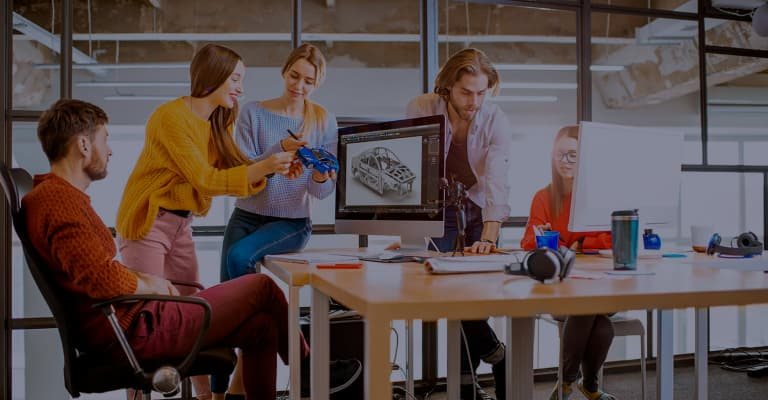
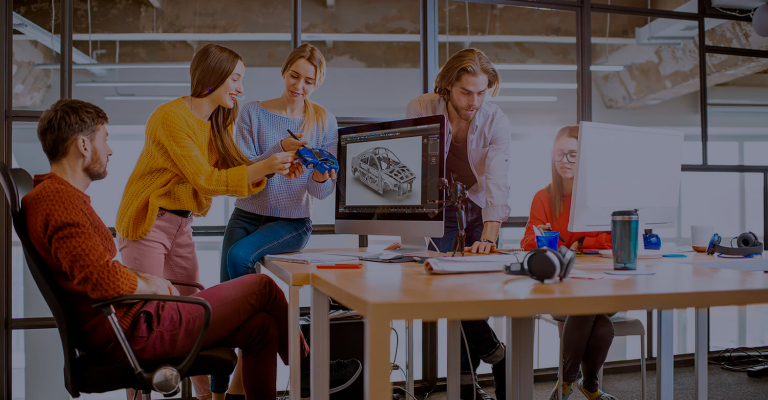
Адаптивные фон у Героя

diff --git a/css/main.min.css b/css/main.min.css
@@ -1,2 +1,2 @@
-.navigation-link,.mobile-navigation-link,.logo,.contacts-link,.mobile-contacts-link,.customer-link,.social-link,.address,.footer-contact{text-decoration:none;transition:color 250ms cubic-bezier(0.4, 0, 0.2, 1)}.navigation,.mobile-navigation,.contacts,.mobile-contacts,.benefit__list,.work-list,.team-list,.customer-list,.social-list{padding:0;margin:0;list-style:none}.benefit-text,.profession{color:var(--primary-text-color)}.benefits h2{position:absolute !important;clip:rect(1px 1px 1px 1px);clip:rect(1px, 1px, 1px, 1px);padding:0 !important;border:0 !important;height:1px !important;width:1px !important;overflow:hidden}.hero-button,.form-button,.subscribe-btn{display:inline-block;padding-top:10px;padding-bottom:10px;font-weight:700;font-size:16px;line-height:1.87;color:#fff;background-color:#2196f3;border:1px solid #2196f3;border-radius:4px;transition:background-color 250ms cubic-bezier(0.4, 0, 0.2, 1),color 250ms cubic-bezier(0.4, 0, 0.2, 1)}.benefit-text,.profession{color:#757575}.benefits,.team,.customers{padding-bottom:94px;padding-top:94px}.work-title,.team-title,.customer-title{margin-bottom:50px;font-weight:700;font-size:36px;line-height:1.166;text-align:center;letter-spacing:0.03em}.name-title,.profession{font-size:16px;line-height:1.1875;text-align:center;letter-spacing:0.03em}html{box-sizing:border-box}*,*::before,*::after{box-sizing:inherit;outline:2px solid red}h1,h2,h3,h4,h5{margin-top:0}p{margin:0}img{display:block;max-width:100%;height:auto}body{font-family:"Roboto",sans-serif;color:#212121;background-color:#fff}.container{width:100%;padding-right:15px;padding-left:15px;margin-right:auto;margin-left:auto}@media screen and (min-width: 480px){.container{width:480px}}@media screen and (min-width: 768px){.container{width:768px}}@media screen and (min-width: 1200px){.container{width:1200px}}.header-wrap{border-bottom:1px solid #ececec}@media screen and (min-width: 768px){.header-wrap{display:flex;justify-content:center;align-items:center}}.main-nav{display:flex;justify-content:space-between;align-items:center}@media screen and (min-width: 768px){.main-nav{display:flex;justify-content:unset;align-items:center}}.navigation{display:none;margin-left:93px}@media screen and (min-width: 768px){.navigation{display:flex}}.navigation-item:not(:last-child){margin-right:50px}.navigation-link{position:relative;display:block;padding-top:32px;padding-bottom:32px;font-weight:500;font-size:14px;line-height:1.142;letter-spacing:0.02em;color:#212121}.navigation-link:hover,.navigation-link:focus{color:#2196f3}.navigation-link::after{position:absolute;bottom:0;left:0;content:"";display:block;width:100%;height:4px;background-color:#2196f3;border-radius:2px;transform:scale(0);transition:transform 250ms cubic-bezier(0.4, 0, 0.2, 1)}.navigation-link.current{color:#2196f3}.navigation-link:hover::after,.navigation-link.current::after{transform:scale(1)}.mobile-menu-btn{display:block;background-color:transparent;border:none}.mobile-menu-btn:focus,.mobile-menu-btn:hover{fill:#2196f3}.mobile-menu-btn.is--open{display:none}@media screen and (min-width: 768px){.mobile-menu-btn{display:none}}.close-menu-btn{display:none}.close-menu-btn.is--open{display:block;background-color:transparent;border:none}.close-menu-btn.is--open:focus,.close-menu-btn.is--open:hover{fill:#2196f3}.mobile-menu{position:absolute;right:0;left:0;padding-top:60px;padding-bottom:60px;background-color:#fff;opacity:0;visibility:hidden}@media screen and (min-width: 768px){.mobile-menu{display:none}}.mobile-menu.is--open{opacity:1;visibility:visible}.mobile-navigation{text-align:center}.mobile-navigation-link{position:relative;display:inline-block;padding-top:8px;padding-bottom:8px;margin-bottom:40px;font-weight:500;font-size:18px;line-height:1.142;letter-spacing:0.02em;color:#212121}.mobile-navigation-link:hover,.mobile-navigation-link:focus{color:#2196f3}.mobile-navigation-link::after{position:absolute;bottom:0;left:0;content:"";display:block;width:100%;height:4px;background-color:#2196f3;border-radius:2px;transform:scale(0);transition:transform 250ms cubic-bezier(0.4, 0, 0.2, 1)}.mobile-navigation-link.current{color:#2196f3}.mobile-navigation-link:hover::after,.mobile-navigation-link.current::after{transform:scale(1)}.logo{font-family:"Raleway",sans-serif;font-weight:700;font-size:26px;line-height:1.192;letter-spacing:0.03em}.logo-color{color:#2196f3}.logo-header{color:#212121}.logo-footer{color:#fff;margin-bottom:20px}.contacts{display:none}@media screen and (min-width: 768px){.contacts{display:flex;justify-content:none;align-items:center;margin-left:auto}.contacts-item+.contacts-item{margin-left:50px}}.contacts-link{display:block;padding-top:32px;padding-bottom:32px;font-weight:500;font-size:14px;line-height:1.142;letter-spacing:0.02em;color:#757575}.contacts-link:hover,.contacts-link:focus{color:#2196f3}.contact-icon{margin-right:10px;fill:currentColor}.mobile-contacts{text-align:center}.mobile-contacts-link{display:block;padding-top:5px;padding-bottom:5px;font-weight:500;font-size:18px;line-height:1.142;letter-spacing:0.02em;color:#757575}.mobile-contacts-link:not(:last-child){margin-bottom:16px}.mobile-contacts-link:hover,.mobile-contacts-link:focus{color:#2196f3}.hero{max-width:1600px;margin-right:auto;margin-left:auto;padding-top:118px;padding-bottom:118px;text-align:center;background-color:#2f303a;background-image:linear-gradient(to right, rgba(47,48,58,0.4), rgba(47,48,58,0.4)),url("../images/hero_optimazed.jpg");background-repeat:no-repeat;background-size:cover;background-position:center}.hero-title{width:360px;margin-right:auto;margin-left:auto;margin-bottom:30px;font-weight:900;font-size:26px;line-height:1.36;letter-spacing:0.06em;text-transform:uppercase;color:#fff}@media screen and (min-width: 1200px){.hero-title{width:696px;font-size:44px}}.hero-button{padding-right:32px;padding-left:32px;color:#fff}.hero-button:hover,.hero-button:focus{color:#2196f3;background-color:#fff}.benefits{padding-top:94px}.benefit__list{margin-left:auto;margin-right:auto}@media screen and (min-width: 768px){.benefit__list{display:flex;flex-wrap:wrap;margin-left:-30px;margin-top:-30px}}.benefit__list .benefit__list__item{width:100%;max-width:450px}@media screen and (min-width: 768px){.benefit__list .benefit__list__item{margin-left:30px;margin-top:30px;flex-basis:calc(100% / 2 - 30px)}}@media screen and (min-width: 1200px){.benefit__list .benefit__list__item{margin-left:30px;margin-top:30px;flex-basis:calc(100% / 4 - 30px)}}.benefit__list__item::before{display:block;height:120px;content:"";background-color:#f5f4fa;background-repeat:no-repeat;background-position:center;background-size:70px 70px;border-radius:4px}.benefit-title{margin-bottom:10px;margin-top:30px;font-weight:700;font-size:14px;line-height:1.142;letter-spacing:0.03em;text-transform:uppercase;text-align:center}@media screen and (min-width: 768px){.benefit-title{text-align:left}}.benefit-text{margin-bottom:0;font-size:14px;line-height:1.71;letter-spacing:0.03em}.icon-details::before{background-image:url("../images/benefits/desktop/antena.png")}.icon-in-time::before{background-image:url("../images/benefits/desktop/clock.png")}.icon-planning::before{background-image:url("../images/benefits/desktop/diagram.png")}.icon-technology::before{background-image:url("../images/benefits/desktop/astronaut.png")}.works{display:none}@media screen and (min-width: 1200px){.works{display:block;padding-bottom:94px}}@media screen and (min-width: 1200px){.work-list{display:flex}}.work-item{display:inline-block;position:relative;z-index:1}.work-item:not(:nth-child(3n)){margin-right:30px}.work-description{position:absolute;z-index:2;left:0;bottom:0;display:flex;justify-content:center;align-items:center;height:70px;width:100%;font-weight:700;font-size:14px;line-height:1.142;letter-spacing:0.03em;text-transform:uppercase;color:#fff;background-color:rgba(47,48,58,0.8)}.team{background-color:#f5f4fa}@media screen and (max-width: 1199px){.team-title{font-size:28px}}@media screen and (min-width: 768px){.team-list{display:flex;flex-wrap:wrap;margin-left:-30px;margin-top:-30px}}.team-item{width:100%;max-width:450px;margin-right:auto;margin-left:auto;padding-bottom:30px;background-color:#fff;box-shadow:0px 1px 3px rgba(0,0,0,0.12),0px 1px 1px rgba(0,0,0,0.14),0px 2px 1px rgba(0,0,0,0.2);border-radius:0px 0px 4px 4px}@media screen and (min-width: 768px){.team-item{flex-basis:calc(100% / 2 - 30px);margin-left:30px;margin-top:30px}}@media screen and (min-width: 1200px){.team-item{flex-basis:calc(100% / 4 - 30px);margin-left:30px;margin-top:30px}}.team-photo{margin-bottom:30px}.name-title{margin-bottom:10px;font-weight:500}.profession{margin-bottom:16px}.customer-list{display:flex;flex-wrap:wrap;margin-left:-30px;margin-top:-30px}.customer-item{width:100%;max-width:450px;margin-left:30px;margin-top:30px}@media screen and (max-width: 1199px){.customer-item{flex-basis:calc(100% / 2 - 30px)}}@media screen and (min-width: 768px){.customer-item{flex-basis:calc(100% / 3 - 30px)}}@media screen and (min-width: 1200px){.customer-item{flex-basis:calc(100% / 6 - 30px)}}.customer-link{display:flex;justify-content:center;align-items:center;height:90px;border:1px solid #afb1b8;border-radius:4px;transition:border 250ms cubic-bezier(0.4, 0, 0.2, 1)}.customer-link:hover,.customer-link:focus{border:1px solid #2196f3}.customer-icon{transition:fill 250ms cubic-bezier(0.4, 0, 0.2, 1);fill:#afb1b8}.customer-link:hover .customer-icon,.customer-link:focus .customer-icon{fill:#2196f3}.backdrop{position:fixed;z-index:3;left:0;top:0;width:100%;height:100%;background-color:rgba(0,0,0,0.2);opacity:1;transition:opacity 250ms cubic-bezier(0.4, 0, 0.2, 1)}.backdrop.is-hidden{opacity:0;pointer-events:none}.modal{position:absolute;z-index:5;left:50%;top:50%;transform:translate(-50%, -50%) scale(1);min-width:528px;min-height:581px;padding:40px;background-color:#fff;box-shadow:0px 1px 3px rgba(0,0,0,0.12),0px 1px 1px rgba(0,0,0,0.14),0px 2px 1px rgba(0,0,0,0.2);border-radius:4px;transition:transform 250ms cubic-bezier(0.4, 0, 0.2, 1)}.backdrop.is-hidden .modal{transform:translate(-50%, -50%) scale(0.5)}.close-modal{position:absolute;right:8px;top:8px;width:30px;height:30px;display:flex;justify-content:center;align-items:center;background-color:#fff;border-radius:50%;border:1px solid rgba(0,0,0,0.1)}.close-modal:hover{background-color:#2196f3}.form-title{margin-bottom:12px;font-weight:700;font-size:20px;line-height:1.5;letter-spacing:0.03em;color:#212121}.recall-form{text-align:left}.form-field{position:relative;margin-bottom:10px}.form-field:nth-last-of-type(2){margin-bottom:20px}.form-label{display:inline-block;margin-bottom:4px;font-size:12px;line-height:1.16;letter-spacing:0.01em;color:#757575}.form-input{width:100%;padding:12px;padding-left:42px;transition:250ms cubic-bezier(0.4, 0, 0.2, 1);border:1px solid rgba(33,33,33,0.2);box-sizing:border-box;border-radius:4px}.form-input:focus,.form-input:hover{cursor:pointer;border:1px solid #2196f3}.form-input:focus{outline:1px auto #2196f3}.form-comment{width:100%;height:120px;transition:250ms cubic-bezier(0.4, 0, 0.2, 1);resize:none;padding:12px;border:1px solid rgba(33,33,33,0.2);box-sizing:border-box;border-radius:4px}.form-comment:focus,.form-comment:hover{cursor:pointer;border:1px solid #2196f3}.form-comment:focus{outline:1px auto #2196f3}.form-comment::placeholder{font-size:14px;line-height:1.14;letter-spacing:0.01em;color:rgba(117,117,117,0.5)}.input-icon{position:absolute;left:15px;top:35px}.form-input:focus ~ .input-icon,.form-input:hover ~ .input-icon{fill:#2196f3}.checkbox-label{display:inline-flex;align-items:center;font-size:14px;line-height:1.71;letter-spacing:0.03em;margin-bottom:30px;color:#757575}.checkbox-link{display:inline-block;margin-left:5px;color:#2196f3;transition:250ms cubic-bezier(0.4, 0, 0.2, 1)}.checkbox-link:hover,.checkbox-link:focus{color:#1b78c4}.custom-checkbox{appearance:none;position:absolute}.icon{display:inline-block;width:16px;height:15px;margin-right:5px;border:2px solid #2a2a2a;border-radius:4px;background-color:transparent;transition:250ms cubic-bezier(0.4, 0, 0.2, 1)}.custom-checkbox:checked+.icon{border-color:transparent;background-image:url("../images/icon_check.svg");background-size:contain;background-origin:border-box}.form-button{display:block;margin-left:auto;margin-right:auto;padding-right:54px;padding-left:54px;box-shadow:0px 4px 4px rgba(0,0,0,0.15)}.form-button:hover,.form-button:focus{background-color:#188ce8;cursor:pointer}.social-list{display:flex;justify-content:center;align-items:none}.social-item:not(:last-child){margin-right:10px}.social-link{display:flex;justify-content:center;align-items:center;width:44px;height:44px;border-radius:50%}.team .social-link{background-color:#fff;transition:background-color 250ms cubic-bezier(0.4, 0, 0.2, 1)}.join-us .social-link{background-color:rgba(255,255,255,0.1);transition:background-color 250ms cubic-bezier(0.4, 0, 0.2, 1)}.team .social-link:hover,.team .social-link:focus,.join-us .social-link:hover,.join-us .social-link:focus{background-color:#2196f3}.social-icon{fill:#afb1b8}.social-link:hover .social-icon,.social-link:focus .social-icon{fill:#fff}.join-us .social-icon{fill:#fff}.footer{padding-top:60px;padding-bottom:60px;background-color:#2f303a}@media screen and (max-width: 1199px){.footer{text-align:center}}@media screen and (min-width: 1200px){.footer-flex{display:flex;justify-content:space-between;align-items:baseline}}.flex-container{margin-bottom:60px}@media screen and (min-width: 768px){.flex-container{display:flex;justify-content:space-around;align-items:baseline}}.footer-wrap:not(:last-child){margin-bottom:60px}@media screen and (min-width: 1200px){.footer-wrap{display:flex;flex-direction:column}}@media screen and (min-width: 1200px){.contact-wrap{margin-right:70px}}.address{display:inline-block;margin-top:20px;margin-bottom:9px;font-style:normal;color:#fff}.address:hover,.address:focus{color:#2196f3}.footer-contact{color:rgba(255,255,255,0.6);display:block}.footer-contact:not(:last-child){margin-bottom:9px}.footer-contact:hover,.footer-contact:focus{color:#2196f3}@media screen and (min-width: 1200px){.join-us{margin-right:93px}}.join-us-text{margin-bottom:20px;font-weight:700;font-size:14px;line-height:1.14;letter-spacing:0.03em;text-transform:uppercase;color:#fff}.subscribe{margin-right:auto}@media screen and (min-width: 1200px){.subscribe-wrap{display:flex;justify-content:space-between;align-items:baseline}}.subscribe-input{width:358px;padding:16px;color:#fff;background-color:transparent;border:1px solid rgba(255,255,255,0.3);border-radius:4px}.subscribe-input::placeholder{font-size:16px;line-height:1.25;letter-spacing:0.03em;color:rgba(255,255,255,0.6)}.subscribe-btn{position:relative;display:inline-block;margin-top:20px;padding-left:25px;padding-right:62px;transition:color 250ms cubic-bezier(0.4, 0, 0.2, 1);transition:background-color 250ms cubic-bezier(0.4, 0, 0.2, 1)}@media screen and (min-width: 768px){.subscribe-btn{display:block;margin-left:auto;margin-right:auto}}@media screen and (min-width: 1200px){.subscribe-btn{margin-left:12px}}.subscribe-btn:hover,.subscribe-btn:focus{color:#2196f3;background-color:#fff}.icon-send{position:absolute;top:50%;right:25px;transform:translateY(-50%);fill:#fff;transition:fill 250ms cubic-bezier(0.4, 0, 0.2, 1)}.subscribe-btn:hover .icon-send,.subscribe-btn:focus .icon-send{fill:#2196f3}
+.navigation-link,.mobile-navigation-link,.logo,.contacts-link,.mobile-contacts-link,.customer-link,.social-link,.address,.footer-contact{text-decoration:none;transition:color 250ms cubic-bezier(0.4, 0, 0.2, 1)}.navigation,.mobile-navigation,.contacts,.mobile-contacts,.benefit__list,.work-list,.team-list,.customer-list,.social-list{padding:0;margin:0;list-style:none}.benefit-text,.profession{color:var(--primary-text-color)}.benefits h2{position:absolute !important;clip:rect(1px 1px 1px 1px);clip:rect(1px, 1px, 1px, 1px);padding:0 !important;border:0 !important;height:1px !important;width:1px !important;overflow:hidden}.hero-button,.form-button,.subscribe-btn{display:inline-block;padding-top:10px;padding-bottom:10px;font-weight:700;font-size:16px;line-height:1.87;color:#fff;background-color:#2196f3;border:1px solid #2196f3;border-radius:4px;transition:background-color 250ms cubic-bezier(0.4, 0, 0.2, 1),color 250ms cubic-bezier(0.4, 0, 0.2, 1)}.benefit-text,.profession{color:#757575}.benefits,.team,.customers{padding-bottom:94px;padding-top:94px}.work-title,.team-title,.customer-title{margin-bottom:50px;font-weight:700;font-size:36px;line-height:1.166;text-align:center;letter-spacing:0.03em}.name-title,.profession{font-size:16px;line-height:1.1875;text-align:center;letter-spacing:0.03em}html{box-sizing:border-box}*,*::before,*::after{box-sizing:inherit;outline:2px solid red}h1,h2,h3,h4,h5{margin-top:0}p{margin:0}img{display:block;max-width:100%;height:auto}body{font-family:"Roboto",sans-serif;color:#212121;background-color:#fff}.container{width:100%;padding-right:15px;padding-left:15px;margin-right:auto;margin-left:auto}@media screen and (min-width: 480px){.container{width:480px}}@media screen and (min-width: 768px){.container{width:768px}}@media screen and (min-width: 1200px){.container{width:1200px}}.header-wrap{border-bottom:1px solid #ececec}@media screen and (min-width: 768px){.header-wrap{display:flex;justify-content:center;align-items:center}}.main-nav{display:flex;justify-content:space-between;align-items:center}@media screen and (min-width: 768px){.main-nav{display:flex;justify-content:unset;align-items:center}}.navigation{display:none;margin-left:93px}@media screen and (min-width: 768px){.navigation{display:flex}}.navigation-item:not(:last-child){margin-right:50px}.navigation-link{position:relative;display:block;padding-top:32px;padding-bottom:32px;font-weight:500;font-size:14px;line-height:1.142;letter-spacing:0.02em;color:#212121}.navigation-link:hover,.navigation-link:focus{color:#2196f3}.navigation-link::after{position:absolute;bottom:0;left:0;content:"";display:block;width:100%;height:4px;background-color:#2196f3;border-radius:2px;transform:scale(0);transition:transform 250ms cubic-bezier(0.4, 0, 0.2, 1)}.navigation-link.current{color:#2196f3}.navigation-link:hover::after,.navigation-link.current::after{transform:scale(1)}.mobile-menu-btn{display:block;background-color:transparent;border:none}.mobile-menu-btn:focus,.mobile-menu-btn:hover{fill:#2196f3}.mobile-menu-btn.is--open{display:none}@media screen and (min-width: 768px){.mobile-menu-btn{display:none}}.close-menu-btn{display:none}.close-menu-btn.is--open{display:block;background-color:transparent;border:none}.close-menu-btn.is--open:focus,.close-menu-btn.is--open:hover{fill:#2196f3}.mobile-menu{position:absolute;right:0;left:0;padding-top:60px;padding-bottom:60px;background-color:#fff;opacity:0;visibility:hidden}@media screen and (min-width: 768px){.mobile-menu{display:none}}.mobile-menu.is--open{opacity:1;visibility:visible}.mobile-navigation{text-align:center}.mobile-navigation-link{position:relative;display:inline-block;padding-top:8px;padding-bottom:8px;margin-bottom:40px;font-weight:500;font-size:18px;line-height:1.142;letter-spacing:0.02em;color:#212121}.mobile-navigation-link:hover,.mobile-navigation-link:focus{color:#2196f3}.mobile-navigation-link::after{position:absolute;bottom:0;left:0;content:"";display:block;width:100%;height:4px;background-color:#2196f3;border-radius:2px;transform:scale(0);transition:transform 250ms cubic-bezier(0.4, 0, 0.2, 1)}.mobile-navigation-link.current{color:#2196f3}.mobile-navigation-link:hover::after,.mobile-navigation-link.current::after{transform:scale(1)}.logo{font-family:"Raleway",sans-serif;font-weight:700;font-size:26px;line-height:1.192;letter-spacing:0.03em}.logo-color{color:#2196f3}.logo-header{color:#212121}.logo-footer{color:#fff;margin-bottom:20px}.contacts{display:none}@media screen and (min-width: 768px){.contacts{display:flex;justify-content:none;align-items:center;margin-left:auto}.contacts-item+.contacts-item{margin-left:50px}}.contacts-link{display:block;padding-top:32px;padding-bottom:32px;font-weight:500;font-size:14px;line-height:1.142;letter-spacing:0.02em;color:#757575}.contacts-link:hover,.contacts-link:focus{color:#2196f3}.contact-icon{margin-right:10px;fill:currentColor}.mobile-contacts{text-align:center}.mobile-contacts-link{display:block;padding-top:5px;padding-bottom:5px;font-weight:500;font-size:18px;line-height:1.142;letter-spacing:0.02em;color:#757575}.mobile-contacts-link:not(:last-child){margin-bottom:16px}.mobile-contacts-link:hover,.mobile-contacts-link:focus{color:#2196f3}.hero{max-width:1600px;margin-right:auto;margin-left:auto;padding-top:118px;padding-bottom:118px;text-align:center;background-color:#2f303a;background-image:linear-gradient(to right, rgba(47,48,58,0.4), rgba(47,48,58,0.4)),url("../images/hero/mobile/header-480.jpg");background-repeat:no-repeat;background-size:cover;background-position:center}@media screen and (min-device-pixel-ratio: 2), screen and (min-resolution: 192dpi), screen and (min-resolution: 2dppx){.hero{background-image:linear-gradient(to right, rgba(47,48,58,0.4), rgba(47,48,58,0.4)),url("../images/hero/mobile/header-480-2x.jpg")}}@media screen and (min-width: 768px){.hero{background-image:linear-gradient(to right, rgba(47,48,58,0.4), rgba(47,48,58,0.4)),url("../images/hero/tablet/header-768.jpg")}}@media screen and (min-width: 768px) and (min-device-pixel-ratio: 2), screen and (min-width: 768px) and (min-resolution: 192dpi), screen and (min-width: 768px) and (min-resolution: 2dppx){.hero{background-image:linear-gradient(to right, rgba(47,48,58,0.4), rgba(47,48,58,0.4)),url("../images/hero/tablet/header-768-2x.jpg")}}@media screen and (min-width: 1200px){.hero{padding-top:200px;padding-bottom:200px;background-image:linear-gradient(to right, rgba(47,48,58,0.4), rgba(47,48,58,0.4)),url("../images/hero/desktop/hero_optimazed.jpg")}}@media screen and (min-width: 1200px) and (min-device-pixel-ratio: 2), screen and (min-width: 1200px) and (min-resolution: 192dpi), screen and (min-width: 1200px) and (min-resolution: 2dppx){.hero{background-image:linear-gradient(to right, rgba(47,48,58,0.4), rgba(47,48,58,0.4)),url("../images/hero/desktop/header-1200-2x.jpg")}}.hero-title{width:360px;margin-right:auto;margin-left:auto;margin-bottom:30px;font-weight:900;font-size:26px;line-height:1.36;letter-spacing:0.06em;text-transform:uppercase;color:#fff}@media screen and (min-width: 1200px){.hero-title{width:696px;font-size:44px}}.hero-button{padding-right:32px;padding-left:32px;color:#fff}.hero-button:hover,.hero-button:focus{color:#2196f3;background-color:#fff}.benefits{padding-top:94px}.benefit__list{margin-left:auto;margin-right:auto}@media screen and (min-width: 768px){.benefit__list{display:flex;flex-wrap:wrap;margin-left:-30px;margin-top:-30px}}.benefit__list .benefit__list__item{width:100%;max-width:450px}@media screen and (min-width: 768px){.benefit__list .benefit__list__item{margin-left:30px;margin-top:30px;flex-basis:calc(100% / 2 - 30px)}}@media screen and (min-width: 1200px){.benefit__list .benefit__list__item{margin-left:30px;margin-top:30px;flex-basis:calc(100% / 4 - 30px)}}.benefit__list__item::before{display:block;height:120px;content:"";background-color:#f5f4fa;background-repeat:no-repeat;background-position:center;background-size:70px 70px;border-radius:4px}.benefit-title{margin-bottom:10px;margin-top:30px;font-weight:700;font-size:14px;line-height:1.142;letter-spacing:0.03em;text-transform:uppercase;text-align:center}@media screen and (min-width: 768px){.benefit-title{text-align:left}}.benefit-text{margin-bottom:0;font-size:14px;line-height:1.71;letter-spacing:0.03em}.icon-details::before{background-image:url("../images/benefits/desktop/antena.png")}.icon-in-time::before{background-image:url("../images/benefits/desktop/clock.png")}.icon-planning::before{background-image:url("../images/benefits/desktop/diagram.png")}.icon-technology::before{background-image:url("../images/benefits/desktop/astronaut.png")}.works{display:none}@media screen and (min-width: 1200px){.works{display:block;padding-bottom:94px}}@media screen and (min-width: 1200px){.work-list{display:flex}}.work-item{display:inline-block;position:relative;z-index:1}.work-item:not(:nth-child(3n)){margin-right:30px}.work-description{position:absolute;z-index:2;left:0;bottom:0;display:flex;justify-content:center;align-items:center;height:70px;width:100%;font-weight:700;font-size:14px;line-height:1.142;letter-spacing:0.03em;text-transform:uppercase;color:#fff;background-color:rgba(47,48,58,0.8)}.team{background-color:#f5f4fa}@media screen and (max-width: 1199px){.team-title{font-size:28px}}@media screen and (min-width: 768px){.team-list{display:flex;flex-wrap:wrap;margin-left:-30px;margin-top:-30px}}.team-item{width:100%;max-width:450px;margin-right:auto;margin-left:auto;padding-bottom:30px;background-color:#fff;box-shadow:0px 1px 3px rgba(0,0,0,0.12),0px 1px 1px rgba(0,0,0,0.14),0px 2px 1px rgba(0,0,0,0.2);border-radius:0px 0px 4px 4px}@media screen and (min-width: 768px){.team-item{flex-basis:calc(100% / 2 - 30px);margin-left:30px;margin-top:30px}}@media screen and (min-width: 1200px){.team-item{flex-basis:calc(100% / 4 - 30px);margin-left:30px;margin-top:30px}}.team-photo{margin-bottom:30px}.name-title{margin-bottom:10px;font-weight:500}.profession{margin-bottom:16px}.customer-list{display:flex;flex-wrap:wrap;margin-left:-30px;margin-top:-30px}.customer-item{width:100%;max-width:450px;margin-left:30px;margin-top:30px}@media screen and (max-width: 1199px){.customer-item{flex-basis:calc(100% / 2 - 30px)}}@media screen and (min-width: 768px){.customer-item{flex-basis:calc(100% / 3 - 30px)}}@media screen and (min-width: 1200px){.customer-item{flex-basis:calc(100% / 6 - 30px)}}.customer-link{display:flex;justify-content:center;align-items:center;height:90px;border:1px solid #afb1b8;border-radius:4px;transition:border 250ms cubic-bezier(0.4, 0, 0.2, 1)}.customer-link:hover,.customer-link:focus{border:1px solid #2196f3}.customer-icon{transition:fill 250ms cubic-bezier(0.4, 0, 0.2, 1);fill:#afb1b8}.customer-link:hover .customer-icon,.customer-link:focus .customer-icon{fill:#2196f3}.backdrop{position:fixed;z-index:3;left:0;top:0;width:100%;height:100%;background-color:rgba(0,0,0,0.2);opacity:1;transition:opacity 250ms cubic-bezier(0.4, 0, 0.2, 1)}.backdrop.is-hidden{opacity:0;pointer-events:none}.modal{position:absolute;z-index:5;left:50%;top:50%;transform:translate(-50%, -50%) scale(1);min-width:528px;min-height:581px;padding:40px;background-color:#fff;box-shadow:0px 1px 3px rgba(0,0,0,0.12),0px 1px 1px rgba(0,0,0,0.14),0px 2px 1px rgba(0,0,0,0.2);border-radius:4px;transition:transform 250ms cubic-bezier(0.4, 0, 0.2, 1)}.backdrop.is-hidden .modal{transform:translate(-50%, -50%) scale(0.5)}.close-modal{position:absolute;right:8px;top:8px;width:30px;height:30px;display:flex;justify-content:center;align-items:center;background-color:#fff;border-radius:50%;border:1px solid rgba(0,0,0,0.1)}.close-modal:hover{background-color:#2196f3}.form-title{margin-bottom:12px;font-weight:700;font-size:20px;line-height:1.5;letter-spacing:0.03em;color:#212121}.recall-form{text-align:left}.form-field{position:relative;margin-bottom:10px}.form-field:nth-last-of-type(2){margin-bottom:20px}.form-label{display:inline-block;margin-bottom:4px;font-size:12px;line-height:1.16;letter-spacing:0.01em;color:#757575}.form-input{width:100%;padding:12px;padding-left:42px;transition:250ms cubic-bezier(0.4, 0, 0.2, 1);border:1px solid rgba(33,33,33,0.2);box-sizing:border-box;border-radius:4px}.form-input:focus,.form-input:hover{cursor:pointer;border:1px solid #2196f3}.form-input:focus{outline:1px auto #2196f3}.form-comment{width:100%;height:120px;transition:250ms cubic-bezier(0.4, 0, 0.2, 1);resize:none;padding:12px;border:1px solid rgba(33,33,33,0.2);box-sizing:border-box;border-radius:4px}.form-comment:focus,.form-comment:hover{cursor:pointer;border:1px solid #2196f3}.form-comment:focus{outline:1px auto #2196f3}.form-comment::placeholder{font-size:14px;line-height:1.14;letter-spacing:0.01em;color:rgba(117,117,117,0.5)}.input-icon{position:absolute;left:15px;top:35px}.form-input:focus ~ .input-icon,.form-input:hover ~ .input-icon{fill:#2196f3}.checkbox-label{display:inline-flex;align-items:center;font-size:14px;line-height:1.71;letter-spacing:0.03em;margin-bottom:30px;color:#757575}.checkbox-link{display:inline-block;margin-left:5px;color:#2196f3;transition:250ms cubic-bezier(0.4, 0, 0.2, 1)}.checkbox-link:hover,.checkbox-link:focus{color:#1b78c4}.custom-checkbox{appearance:none;position:absolute}.icon{display:inline-block;width:16px;height:15px;margin-right:5px;border:2px solid #2a2a2a;border-radius:4px;background-color:transparent;transition:250ms cubic-bezier(0.4, 0, 0.2, 1)}.custom-checkbox:checked+.icon{border-color:transparent;background-image:url("../images/icon_check.svg");background-size:contain;background-origin:border-box}.form-button{display:block;margin-left:auto;margin-right:auto;padding-right:54px;padding-left:54px;box-shadow:0px 4px 4px rgba(0,0,0,0.15)}.form-button:hover,.form-button:focus{background-color:#188ce8;cursor:pointer}.social-list{display:flex;justify-content:center;align-items:none}.social-item:not(:last-child){margin-right:10px}.social-link{display:flex;justify-content:center;align-items:center;width:44px;height:44px;border-radius:50%}.team .social-link{background-color:#fff;transition:background-color 250ms cubic-bezier(0.4, 0, 0.2, 1)}.join-us .social-link{background-color:rgba(255,255,255,0.1);transition:background-color 250ms cubic-bezier(0.4, 0, 0.2, 1)}.team .social-link:hover,.team .social-link:focus,.join-us .social-link:hover,.join-us .social-link:focus{background-color:#2196f3}.social-icon{fill:#afb1b8}.social-link:hover .social-icon,.social-link:focus .social-icon{fill:#fff}.join-us .social-icon{fill:#fff}.footer{padding-top:60px;padding-bottom:60px;background-color:#2f303a}@media screen and (max-width: 1199px){.footer{text-align:center}}@media screen and (min-width: 1200px){.footer-flex{display:flex;justify-content:space-between;align-items:baseline}}.flex-container{margin-bottom:60px}@media screen and (min-width: 768px){.flex-container{display:flex;justify-content:space-around;align-items:baseline}}.footer-wrap:not(:last-child){margin-bottom:60px}@media screen and (min-width: 1200px){.footer-wrap{display:flex;flex-direction:column}}@media screen and (min-width: 1200px){.contact-wrap{margin-right:70px}}.address{display:inline-block;margin-top:20px;margin-bottom:9px;font-style:normal;color:#fff}.address:hover,.address:focus{color:#2196f3}.footer-contact{color:rgba(255,255,255,0.6);display:block}.footer-contact:not(:last-child){margin-bottom:9px}.footer-contact:hover,.footer-contact:focus{color:#2196f3}@media screen and (min-width: 1200px){.join-us{margin-right:93px}}.join-us-text{margin-bottom:20px;font-weight:700;font-size:14px;line-height:1.14;letter-spacing:0.03em;text-transform:uppercase;color:#fff}.subscribe{margin-right:auto}@media screen and (min-width: 1200px){.subscribe-wrap{display:flex;justify-content:space-between;align-items:baseline}}.subscribe-input{width:358px;padding:16px;color:#fff;background-color:transparent;border:1px solid rgba(255,255,255,0.3);border-radius:4px}.subscribe-input::placeholder{font-size:16px;line-height:1.25;letter-spacing:0.03em;color:rgba(255,255,255,0.6)}.subscribe-btn{position:relative;display:inline-block;margin-top:20px;padding-left:25px;padding-right:62px;transition:color 250ms cubic-bezier(0.4, 0, 0.2, 1);transition:background-color 250ms cubic-bezier(0.4, 0, 0.2, 1)}@media screen and (min-width: 768px){.subscribe-btn{display:block;margin-left:auto;margin-right:auto}}@media screen and (min-width: 1200px){.subscribe-btn{margin-left:12px}}.subscribe-btn:hover,.subscribe-btn:focus{color:#2196f3;background-color:#fff}.icon-send{position:absolute;top:50%;right:25px;transform:translateY(-50%);fill:#fff;transition:fill 250ms cubic-bezier(0.4, 0, 0.2, 1)}.subscribe-btn:hover .icon-send,.subscribe-btn:focus .icon-send{fill:#2196f3}
 /*# sourceMappingURL=main.min.css.map */

diff --git a/sass/components/_hero.scss b/sass/components/_hero.scss
@@ -4,8 +4,6 @@
   margin-left: auto;
   padding-top: 118px;
   padding-bottom: 118px;
-  // padding-top: 200px;
-  // padding-bottom: 200px;
 
   text-align: center;
 
@@ -15,10 +13,64 @@
       rgba(47, 48, 58, 0.4),
       rgba(47, 48, 58, 0.4)
     ),
-    url("../images/hero_optimazed.jpg");
+    url("../images/hero/mobile/header-480.jpg");
+
   background-repeat: no-repeat;
   background-size: cover;
   background-position: center;
+
+  @media screen and (min-device-pixel-ratio: 2),
+    screen and (min-resolution: 192dpi),
+    screen and (min-resolution: 2dppx) {
+    background-image: linear-gradient(
+        to right,
+        rgba(47, 48, 58, 0.4),
+        rgba(47, 48, 58, 0.4)
+      ),
+      url("../images/hero/mobile/header-480-2x.jpg");
+  }
+
+  @media screen and (min-width: $tablet) {
+    background-image: linear-gradient(
+        to right,
+        rgba(47, 48, 58, 0.4),
+        rgba(47, 48, 58, 0.4)
+      ),
+      url("../images/hero/tablet/header-768.jpg");
+
+    @media screen and (min-device-pixel-ratio: 2),
+      screen and (min-resolution: 192dpi),
+      screen and (min-resolution: 2dppx) {
+      background-image: linear-gradient(
+          to right,
+          rgba(47, 48, 58, 0.4),
+          rgba(47, 48, 58, 0.4)
+        ),
+        url("../images/hero/tablet/header-768-2x.jpg");
+    }
+  }
+
+  @media screen and (min-width: $desktop) {
+    padding-top: 200px;
+    padding-bottom: 200px;
+    background-image: linear-gradient(
+        to right,
+        rgba(47, 48, 58, 0.4),
+        rgba(47, 48, 58, 0.4)
+      ),
+      url("../images/hero/desktop/hero_optimazed.jpg");
+
+    @media screen and (min-device-pixel-ratio: 2),
+      screen and (min-resolution: 192dpi),
+      screen and (min-resolution: 2dppx) {
+      background-image: linear-gradient(
+          to right,
+          rgba(47, 48, 58, 0.4),
+          rgba(47, 48, 58, 0.4)
+        ),
+        url("../images/hero/desktop/header-1200-2x.jpg");
+    }
+  }
 }
 
 .hero-title {

diff --git a/css/main.css b/css/main.css
@@ -390,10 +390,42 @@ body {
   padding-bottom: 118px;
   text-align: center;
   background-color: #2f303a;
-  background-image: linear-gradient(to right, rgba(47, 48, 58, 0.4), rgba(47, 48, 58, 0.4)), url("../images/hero_optimazed.jpg");
+  background-image: linear-gradient(to right, rgba(47, 48, 58, 0.4), rgba(47, 48, 58, 0.4)), url("../images/hero/mobile/header-480.jpg");
   background-repeat: no-repeat;
   background-size: cover;
   background-position: center;
+}
+
+@media screen and (min-device-pixel-ratio: 2), screen and (min-resolution: 192dpi), screen and (min-resolution: 2dppx) {
+  .hero {
+    background-image: linear-gradient(to right, rgba(47, 48, 58, 0.4), rgba(47, 48, 58, 0.4)), url("../images/hero/mobile/header-480-2x.jpg");
+  }
+}
+
+@media screen and (min-width: 768px) {
+  .hero {
+    background-image: linear-gradient(to right, rgba(47, 48, 58, 0.4), rgba(47, 48, 58, 0.4)), url("../images/hero/tablet/header-768.jpg");
+  }
+}
+
+@media screen and (min-width: 768px) and (min-device-pixel-ratio: 2), screen and (min-width: 768px) and (min-resolution: 192dpi), screen and (min-width: 768px) and (min-resolution: 2dppx) {
+  .hero {
+    background-image: linear-gradient(to right, rgba(47, 48, 58, 0.4), rgba(47, 48, 58, 0.4)), url("../images/hero/tablet/header-768-2x.jpg");
+  }
+}
+
+@media screen and (min-width: 1200px) {
+  .hero {
+    padding-top: 200px;
+    padding-bottom: 200px;
+    background-image: linear-gradient(to right, rgba(47, 48, 58, 0.4), rgba(47, 48, 58, 0.4)), url("../images/hero/desktop/hero_optimazed.jpg");
+  }
+}
+
+@media screen and (min-width: 1200px) and (min-device-pixel-ratio: 2), screen and (min-width: 1200px) and (min-resolution: 192dpi), screen and (min-width: 1200px) and (min-resolution: 2dppx) {
+  .hero {
+    background-image: linear-gradient(to right, rgba(47, 48, 58, 0.4), rgba(47, 48, 58, 0.4)), url("../images/hero/desktop/header-1200-2x.jpg");
+  }
 }
 
 .hero-title {

diff --git a/index.html b/index.html
@@ -16,7 +16,7 @@
   </head>
 
   <body>
-    <!-- <header>
+    <header>
       <div class="container header-wrap">
         <nav class="main-nav">
           <a class="logo logo-header" href="/"
@@ -100,11 +100,11 @@
           >
         </li>
       </ul>
-    </div> -->
+    </div>
 
     <main>
       <!--Hero-->
-      <!-- <section class="hero">
+      <section class="hero">
         <h1 class="hero-title">Эффективные решения для вашего бизнеса</h1>
         <button class="hero-button" type="button" data-modal-open>
           Заказать услугу
@@ -186,7 +186,7 @@
           </div>
         </div>
       </section>
-      <div></div> -->
+      <div></div>
       <!--Benefits-->
       <section class="benefits">
         <div class="container">
